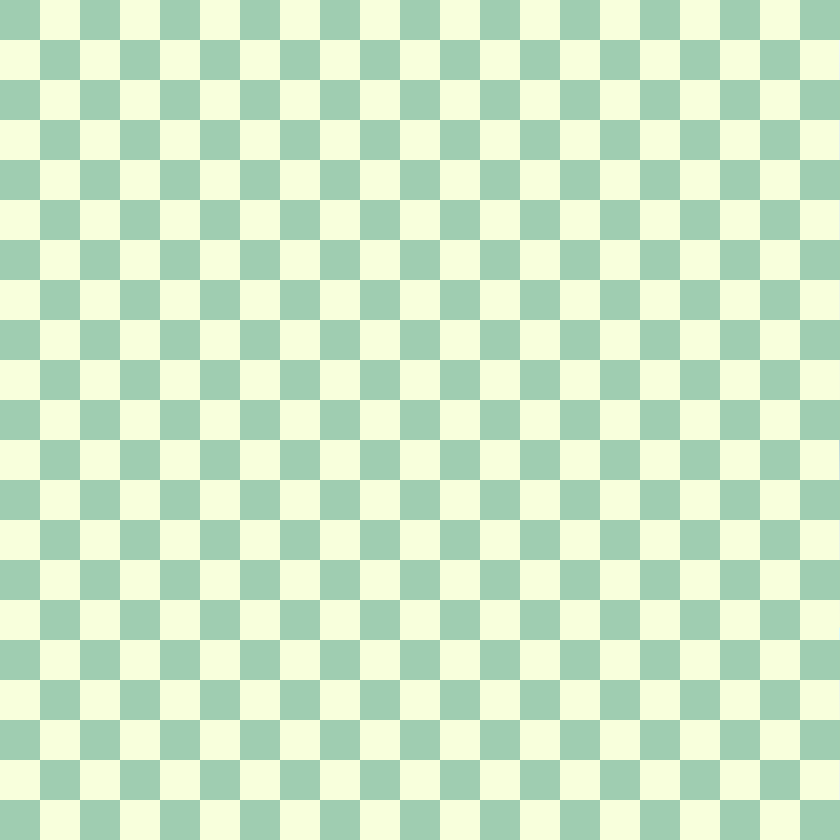
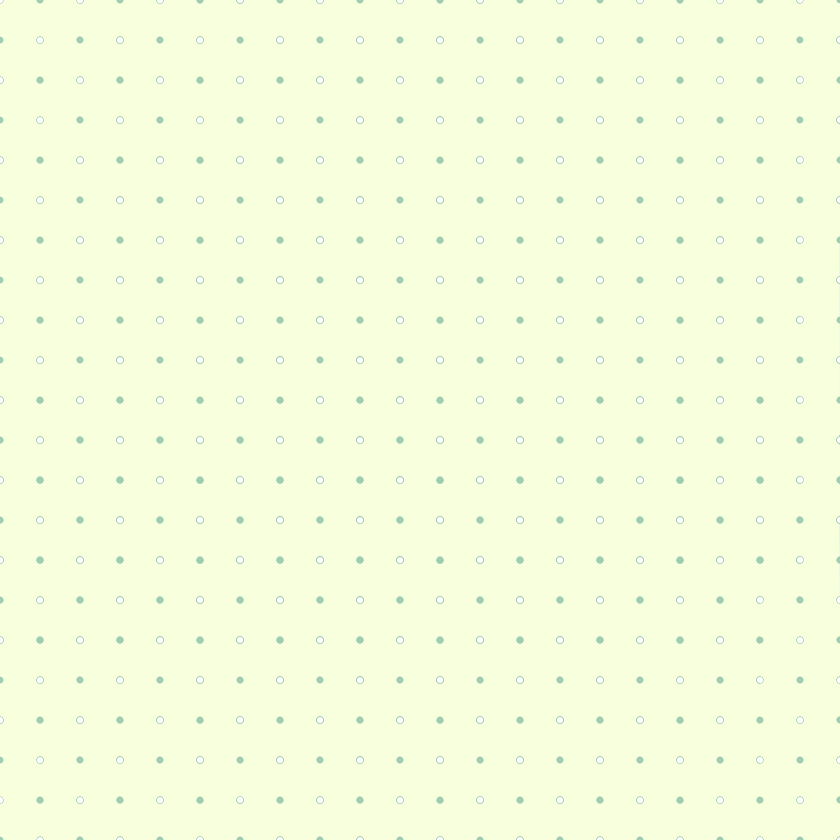
섹터 포함 서로 보이게 완료

diff --git a/SERVER/Tem_server/Tem_server/GameManager.cpp b/SERVER/Tem_server/Tem_server/GameManager.cpp
@@ -15,7 +15,6 @@ GameManager::GameManager()
 
 	Make_threads();
 }
-
 GameManager::~GameManager()
 {
 	closesocket(server_socket);
@@ -32,7 +31,6 @@ void GameManager::S_Bind_Listen()
 	bind(server_socket, reinterpret_cast<sockaddr*>(&server_addr), sizeof(server_addr));
 	listen(server_socket, SOMAXCONN);
 }
-
 void GameManager::S_Accept()
 {
 	SOCKADDR_IN cl_addr;
@@ -43,7 +41,6 @@ void GameManager::S_Accept()
 	accept_over._comp_type = OP_ACCEPT;
 	AcceptEx(server_socket, client_socket, accept_over._send_buf, 0, addr_size + 16, addr_size + 16, 0, &accept_over._over);
 }
-
 void GameManager::Init_NPC()
 {
 }
@@ -164,9 +161,37 @@ void GameManager::Do_timer()
 	}
 }
 
-void GameManager::Disconnect(int cl_id)
-{
 
+bool Is_player(int object_id)
+{
+	return object_id < MAX_USER;
+}
+bool Is_npc(int object_id)
+{
+	return !Is_player(object_id);
+}
+
+void GameManager::Disconnect(int c_id)
+{
+	clients[c_id]._vl.lock();
+	unordered_set <int> vl = clients[c_id]._view_list;
+	clients[c_id]._vl.unlock();
+	for (auto& p_id : vl) {
+		if (Is_npc(p_id)) continue;
+		auto& pl = clients[p_id];
+		{
+			lock_guard<mutex> ll(pl._s_lock);
+			if (ST_INGAME != pl._state) continue;
+		}
+		if (pl._id == c_id) continue;
+		pl.send_remove_player_packet(c_id);
+	}
+	closesocket(clients[c_id]._socket);
+
+	st_mng.SLErase(c_id, clients[c_id].x / S_WIDTH, clients[c_id].y / S_HEIGHT);
+
+	lock_guard<mutex> ll(clients[c_id]._s_lock);
+	clients[c_id]._state = ST_FREE;
 }
 
 int GameManager::Get_new_Client_id()
@@ -192,8 +217,30 @@ void GameManager::Process_packet(int c_id, char* packet)
 			clients[c_id]._state = ST_INGAME;
 		}
 
+		int s_x = clients[c_id].x / S_WIDTH;
+		int s_y = clients[c_id].y / S_HEIGHT;
+
+		st_mng.SLInsert(c_id, s_x, s_y);
+
+		for (int y = s_y - 1; y < s_y + 2; ++y) {
+			for (int x = s_x - 1; x < s_x + 2; ++x) {
+				if (y < 0 || y >= W_HEIGHT / S_HEIGHT || x < 0 || x >= W_WIDTH / S_WIDTH) continue;
+				st_mng._st_lock[y][x].lock();
+				for (auto& p_id : st_mng.sector_list[y][x]) {
+					{
+						lock_guard<mutex> ll(clients[p_id]._s_lock);
+						if (ST_INGAME != clients[p_id]._state) continue;
+					}
+					if (p_id == c_id) continue;
+					if (false == Can_see(c_id, p_id))
+						continue;
+					clients[c_id].send_add_player_packet(&clients[p_id]);
+				}
+				st_mng._st_lock[y][x].unlock();
+			}
+		}
+
 		clients[c_id].send_login_info_packet();
-		clients[c_id].send_add_player_packet(&clients[c_id]);
 
 		break;
 	}
@@ -208,13 +255,67 @@ void GameManager::Process_packet(int c_id, char* packet)
 		case 2: if (x > 0) x--; break;
 		case 3: if (x < W_WIDTH - 1) x++; break;
 		}
+		int s_y = y / S_HEIGHT;
+		int s_x = x / S_WIDTH;
+		if (s_x != clients[c_id].x / S_WIDTH || s_y != clients[c_id].y / S_HEIGHT) {
+			st_mng.SLErase(c_id, clients[c_id].x / S_WIDTH, clients[c_id].y / S_HEIGHT);
+			st_mng.SLInsert(c_id, s_x, s_y);
+		}
 
+		unordered_set<int> near_list;
+		clients[c_id]._vl.lock();
+		unordered_set<int> old_vlist = clients[c_id]._view_list;
+		clients[c_id]._vl.unlock();
+
+		for (int y = s_y - 1; y < s_y + 2; ++y) {
+			for (int x = s_x - 1; x < s_x + 2; ++x) {
+				if (y < 0 || y >= W_HEIGHT / S_HEIGHT || x < 0 || x >= W_WIDTH / S_WIDTH) continue;
+				st_mng._st_lock[y][x].lock();
+				for (auto& p_id : st_mng.sector_list[y][x]) {
+					if (clients[p_id]._state != ST_INGAME) continue;
+					if (p_id == c_id) continue;
+					if (Can_see(c_id, p_id))
+						near_list.insert(p_id);
+				}
+				st_mng._st_lock[y][x].unlock();
+			}
+		}
 		clients[c_id].x = x;
 		clients[c_id].y = y;
 
 		clients[c_id].send_move_packet(&clients[c_id]);
 
+		for (auto& pl : near_list) {
+			clients[pl]._vl.lock();
+			if (clients[pl]._view_list.count(c_id)) {
+				clients[pl]._vl.unlock();
+				clients[pl].send_move_packet(&clients[c_id]);
+			}
+			else {
+				clients[pl]._vl.unlock();
+				clients[pl].send_add_player_packet(&clients[c_id]);
+			}
+
+			if (old_vlist.count(pl) == 0)
+				clients[c_id].send_add_player_packet(&clients[pl]);
+		}
+
+		for (auto& pl : old_vlist) {
+			if (0 == near_list.count(pl)) {
+				clients[c_id].send_remove_player_packet(pl);
+				if (Is_player(pl))
+					clients[pl].send_remove_player_packet(c_id);
+			}
+		}
+
+
 		break;
 	}
 	}
+}
+
+bool GameManager::Can_see(int from, int to)
+{
+	if (abs(clients[from].x - clients[to].x) > VIEW_RANGE) return false;
+	return abs(clients[from].y - clients[to].y) <= VIEW_RANGE;
 }

diff --git a/SERVER/Tem_server/Tem_server/GameManager.h b/SERVER/Tem_server/Tem_server/GameManager.h
@@ -3,6 +3,7 @@
 #include "TIMER_EVENT.h"
 #include "SESSION.h"
 	//#include "OVER_PLUS.h"
+#include "SectorManager.h"
 
 class GameManager
 {
@@ -12,6 +13,7 @@ public:
 	OVER_PLUS accept_over;
 	concurrency::concurrent_priority_queue<TIMER_EVENT> timer_queue;
 	array<SESSION, MAX_USER + MAX_NPC> clients;
+	SectorManager st_mng;
 
 	GameManager();
 	~GameManager();
@@ -24,4 +26,5 @@ public:
 	void Disconnect(int cl_id);
 	void Process_packet(int c_id, char* packet);
 	int Get_new_Client_id();
+	bool Can_see(int from, int to);
 };

diff --git a/SERVER/Tem_server/Tem_server/SectorManager.cpp b/SERVER/Tem_server/Tem_server/SectorManager.cpp
@@ -1,0 +1,15 @@
+#include "SectorManager.h"
+
+void SectorManager::SLInsert(int id, int s_x, int s_y)
+{
+	_st_lock[s_y][s_x].lock();
+	sector_list[s_y][s_x].insert(id);
+	_st_lock[s_y][s_x].unlock();
+}
+
+void SectorManager::SLErase(int id, int s_x, int s_y)
+{
+	_st_lock[s_y][s_x].lock();
+	sector_list[s_y][s_x].erase(id);
+	_st_lock[s_y][s_x].unlock();
+}

diff --git a/SERVER/Tem_server/Tem_server/SectorManager.h b/SERVER/Tem_server/Tem_server/SectorManager.h
@@ -1,0 +1,14 @@
+#pragma once
+#include "stdafx.h"
+#include "SESSION.h"
+
+class SectorManager
+{
+public:
+	unordered_set<int> sector_list[(W_HEIGHT / S_HEIGHT) + 1][(W_WIDTH / S_WIDTH) + 1];
+	mutex _st_lock[(W_HEIGHT / S_HEIGHT) + 1][(W_WIDTH / S_WIDTH) + 1];
+
+	void SLInsert(int id, int s_x, int s_y);
+	void SLErase(int id, int s_x, int s_y);
+};
+

diff --git a/CLIENT/protocol.h b/CLIENT/protocol.h
@@ -10,8 +10,10 @@ constexpr int MAX_NPC				= 200000;
 constexpr int W_WIDTH				= 50;
 constexpr int W_HEIGHT				= 50;
 
-constexpr int S_WIDTH				= 10;
-constexpr int S_HEIGHT				= 10;
+constexpr int S_WIDTH				= 20;
+constexpr int S_HEIGHT				= 20;
+
+constexpr int VIEW_RANGE			= 15;
 
 // Packet ID
 constexpr char CS_LOGIN				= 0;

diff --git a/SERVER/Tem_server/Tem_server/Tem_server.cpp b/SERVER/Tem_server/Tem_server/Tem_server.cpp
@@ -3,8 +3,6 @@
 
 using namespace std;
 
-constexpr int VIEW_RANGE = 15;
-
 GameManager GM;
 
 int main()

diff --git a/CLIENT/Player.h b/CLIENT/Player.h
@@ -11,5 +11,6 @@ public:
 	int				level;
 	short			x, y;
 	char			dir;
+	char			name[NAME_SIZE];
 };
 
